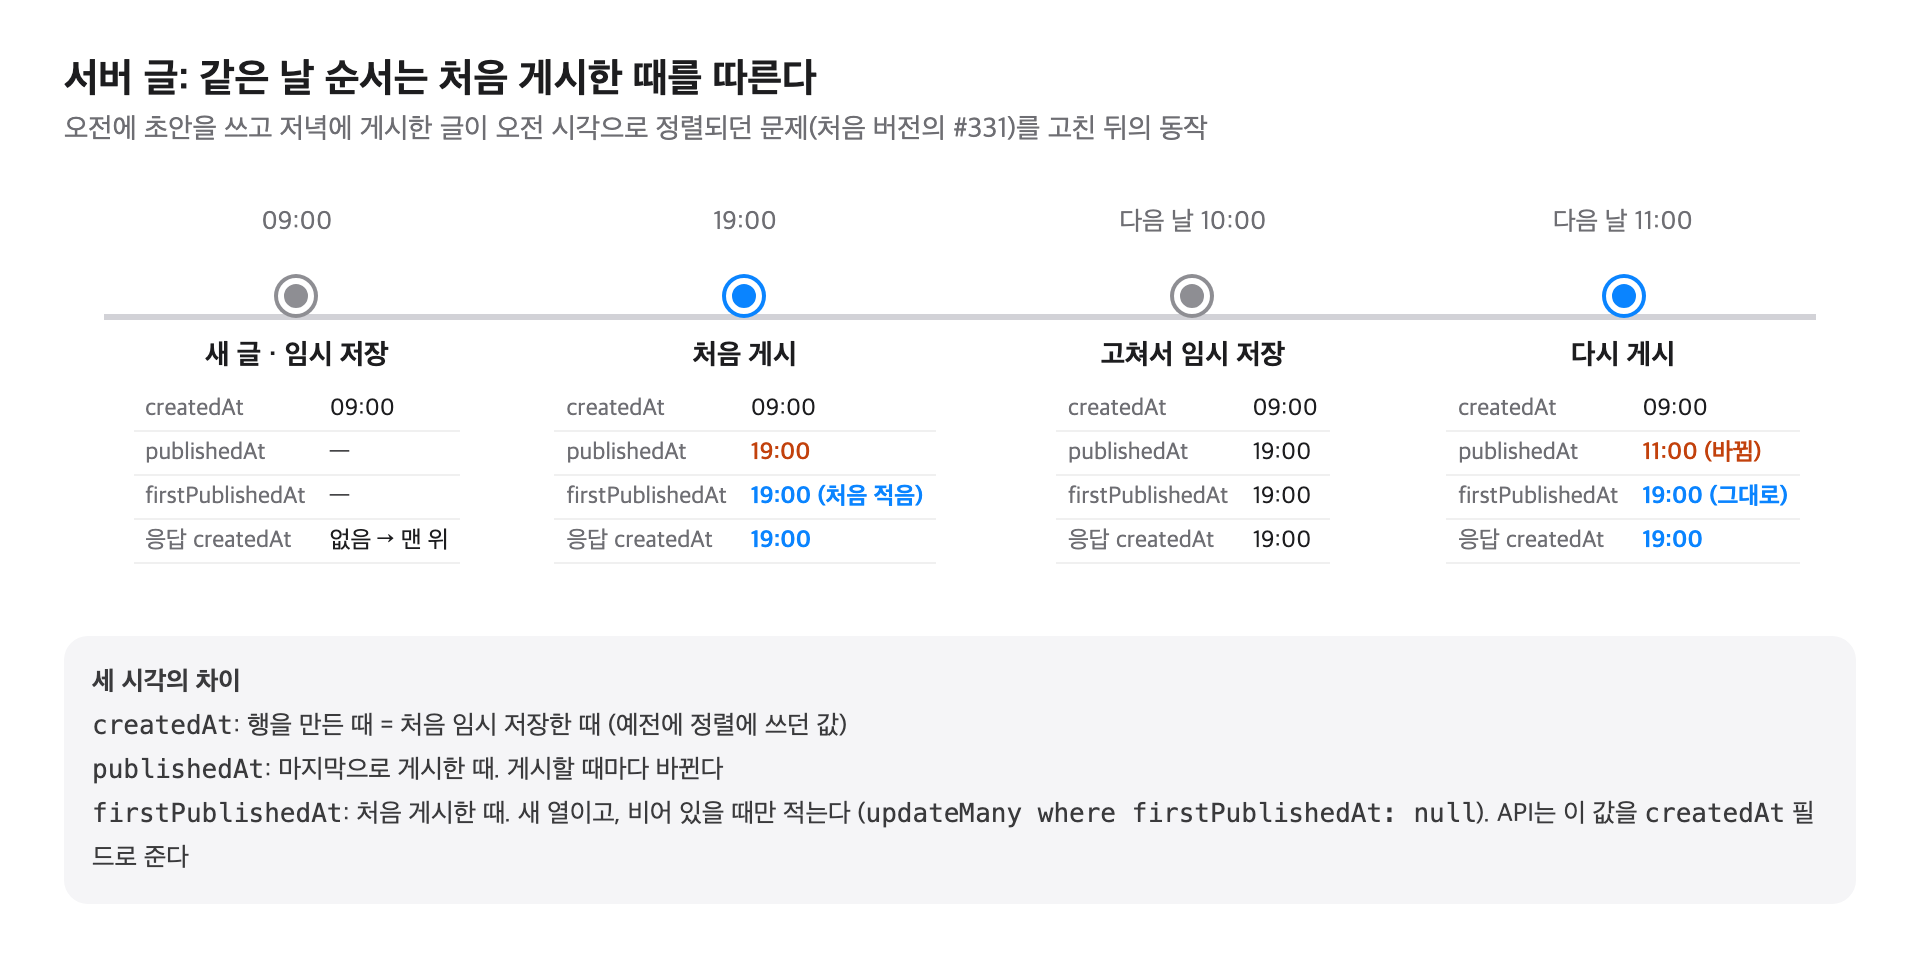
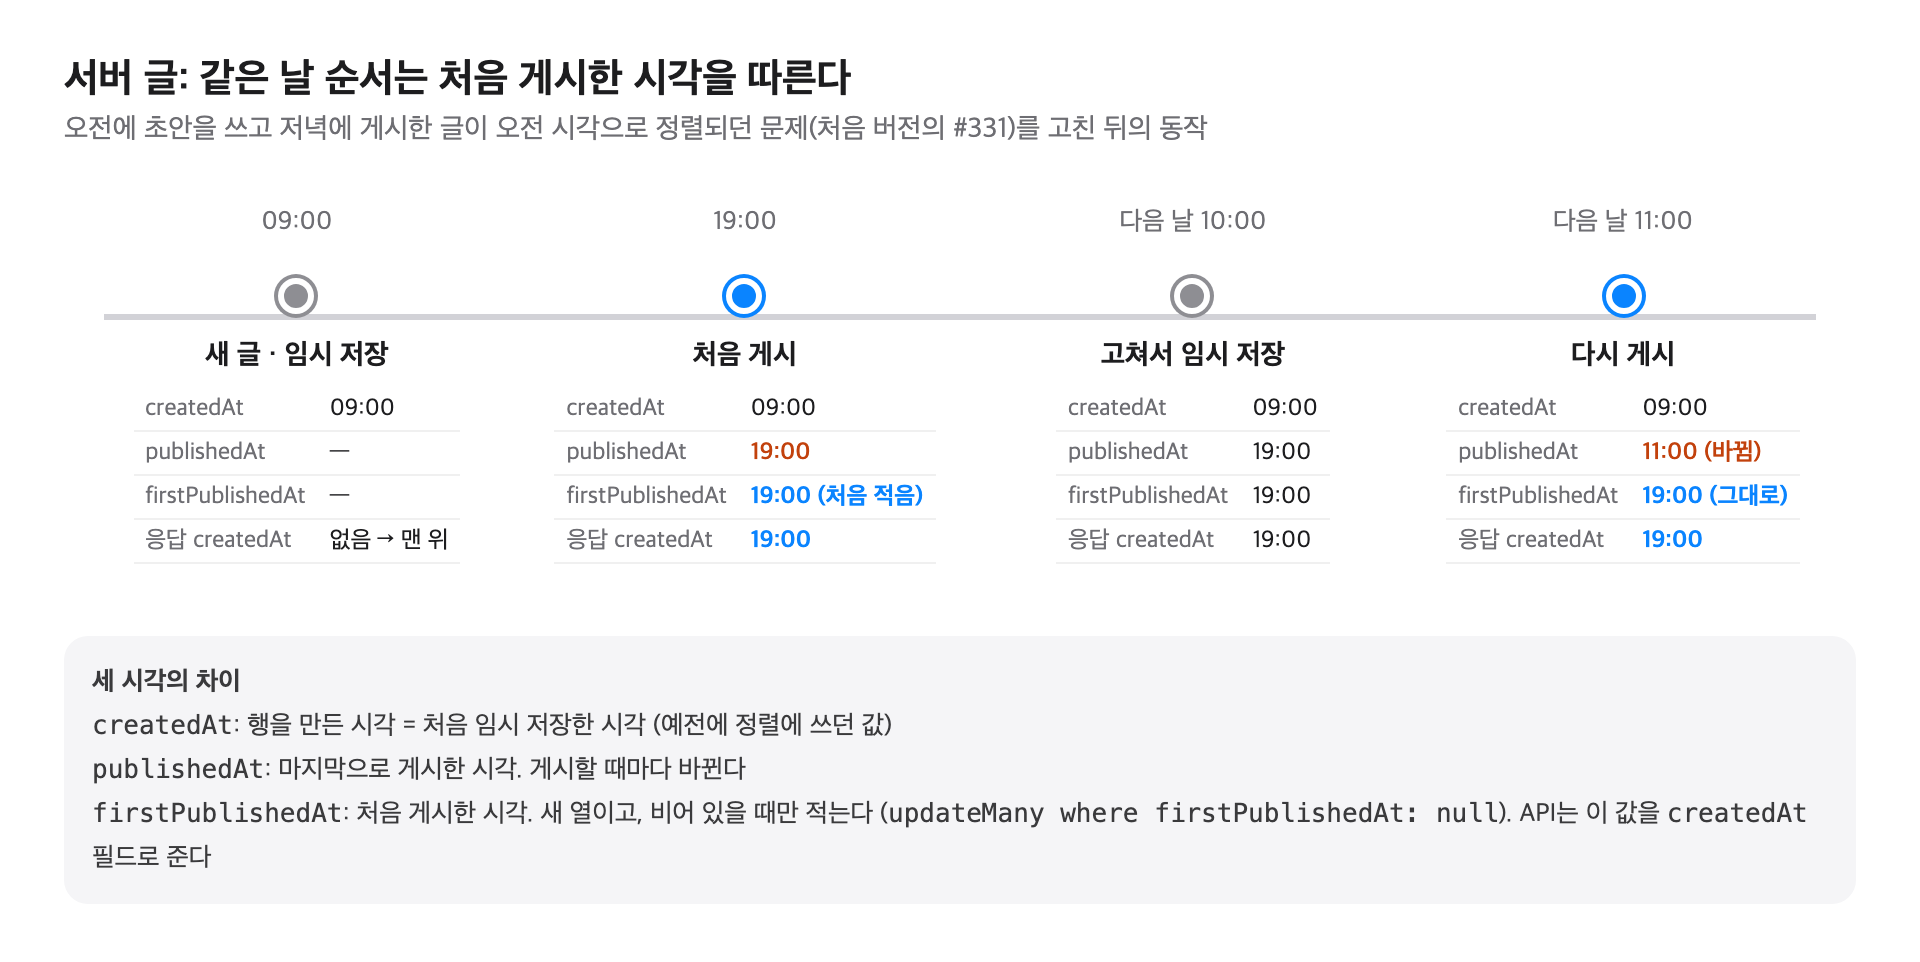
docs(memo): 같은 날 글 순서를 정하는 값을 '때'가 아니라 '시각'으로 적는다

Changed region(s): [[0.1875, 0.7173, 0.9375, 0.8732], [0.3125, 0.0624, 0.4688, 0.1247], [0.0312, 0.8732, 0.125, 0.9044]]

diff --git a/packages/desktop-core/src/memo/posts.ts b/packages/desktop-core/src/memo/posts.ts
@@ -22,8 +22,8 @@ export interface Post {
 	/** 관리자에게만: '최근 삭제된 항목'의 글이면 지운 때 (ISO) */
 	deletedAt?: string;
 	/**
-	 * 올린 때 (ISO, UTC). 같은 날 글의 순서를 정한다 (머리말의 date에는 시각이 없다).
-	 * 저장소 글은 git에 처음 들어온 커밋, 서버 글은 처음 게시한 때. 모르면(아직 커밋하지 않았거나 게시하지 않은 글) 가장 최근으로 본다
+	 * 올린 시각 (ISO, UTC). 같은 날 글의 순서를 정한다 (머리말의 date에는 시각이 없다).
+	 * 저장소 글은 git에 처음 들어온 커밋, 서버 글은 처음 게시한 시각. 모르면(아직 커밋하지 않았거나 게시하지 않은 글) 가장 최근으로 본다
 	 */
 	createdAt?: string;
 }
@@ -107,7 +107,7 @@ export interface ServerPost {
 	summary: string;
 	body: string;
 	deleted: boolean;
-	/** 처음 게시한 때 (ISO). 같은 날 글의 순서에 쓴다. 게시한 적 없거나 이 값을 주기 전의 API면 없다 */
+	/** 처음 게시한 시각 (ISO). 같은 날 글의 순서에 쓴다. 게시한 적 없거나 이 값을 주기 전의 API면 없다 */
 	createdAt?: string;
 }
 
@@ -131,7 +131,7 @@ export function mergeServerPosts(posts: Post[], server: ServerPost[]): Post[] {
 			summary: item.summary || excerpt(item.body),
 			body: item.body,
 			...(original?.pinned && { pinned: true }),
-			// 저장소 글을 서버에서 고쳐도 올린 때는 저장소에 처음 들어온 때
+			// 저장소 글을 서버에서 고쳐도 올린 시각은 저장소에 처음 들어온 시각
 			...((original?.createdAt ?? item.createdAt) && { createdAt: original?.createdAt ?? item.createdAt }),
 		});
 	}
@@ -160,7 +160,7 @@ export interface AdminPost {
 	deletedAt: string | null;
 	/** 남은 버전 수 */
 	revisions: number;
-	/** 처음 게시한 때 (ISO). 같은 날 글의 순서에 쓴다. 게시한 적 없거나 이 값을 주기 전의 API면 없다 */
+	/** 처음 게시한 시각 (ISO). 같은 날 글의 순서에 쓴다. 게시한 적 없거나 이 값을 주기 전의 API면 없다 */
 	createdAt?: string;
 }
 
@@ -241,14 +241,14 @@ export function daysUntilPurge(deletedAt: string, now: Date): number {
 
 const NO_STATUS: PostStatus = { draftOnly: false, changed: false, scheduled: null };
 
-/** 올린 때의 비교 값. 모르면 가장 최근으로 (아직 커밋하지 않은, 지금 쓰고 있는 글) */
+/** 올린 시각의 비교 값. 모르면 가장 최근으로 (아직 커밋하지 않은, 지금 쓰고 있는 글) */
 const createdKey = (post: { createdAt?: string }) => post.createdAt ?? '\uffff';
 
-/** 올린 때로 비교한다: 먼저 올린 글이 앞 (오름차순). 같은 날 글의 순서에 쓴다 */
+/** 올린 시각으로 비교한다: 먼저 올린 글이 앞 (오름차순). 같은 날 글의 순서에 쓴다 */
 export const compareCreated = (a: { createdAt?: string }, b: { createdAt?: string }) =>
 	createdKey(a).localeCompare(createdKey(b));
 
-/** 최신 글이 위로. 같은 날이면 나중에 올린 글이 위로, 올린 때도 같으면 제목 순 */
+/** 최신 글이 위로. 같은 날이면 나중에 올린 글이 위로, 올린 시각도 같으면 제목 순 */
 export function sortPosts(posts: Post[]): Post[] {
 	return [...posts].sort(
 		(a, b) => b.date.localeCompare(a.date) || compareCreated(b, a) || a.title.localeCompare(b.title)
@@ -257,7 +257,7 @@ export function sortPosts(posts: Post[]): Post[] {
 
 /**
  * 날짜 순으로 바로 옆의 글: 이전 글은 더 오래된 글, 다음 글은 더 최근 글 (블로그의 흔한 관례).
- * 같은 날이면 목록과 같은 순서(올린 때, 그다음 제목)를 따른다. 목록을 어떻게 정렬해 보고 있든 날짜로 잇는다.
+ * 같은 날이면 목록과 같은 순서(올린 시각, 그다음 제목)를 따른다. 목록을 어떻게 정렬해 보고 있든 날짜로 잇는다.
  */
 export function adjacentPosts(posts: Post[], slug: PostSlug): { older: Post | null; newer: Post | null } {
 	const ordered = sortPosts(posts);

diff --git a/apps/react/seo/posts.ts b/apps/react/seo/posts.ts
@@ -67,8 +67,8 @@ export function updatedDates(log: string): Record<string, string> {
 }
 
 /**
- * `git log --diff-filter=A --format=%x00%cI --name-only --relative`의 출력 → 글 slug → 올린 때 (처음 더한 커밋, ISO UTC).
- * 같은 날 글의 순서를 정한다 (머리말의 날짜에는 시각이 없다). 기록은 최신 커밋이 먼저라, 지웠다 다시 더한 글은 가장 처음 더한 때
+ * `git log --diff-filter=A --format=%x00%cI --name-only --relative`의 출력 → 글 slug → 올린 시각 (처음 더한 커밋, ISO UTC).
+ * 같은 날 글의 순서를 정한다 (머리말의 날짜에는 시각이 없다). 기록은 최신 커밋이 먼저라, 지웠다 다시 더한 글은 가장 처음 더한 시각
  */
 export function createdTimes(log: string): Record<string, string> {
 	const times: Record<string, string> = {};
@@ -84,7 +84,7 @@ export function createdTimes(log: string): Record<string, string> {
 	return times;
 }
 
-/** 빌드가 넘기는 것: 빌드한 그림 주소, 글 slug → 마지막으로 고친 날, 글 slug → 올린 때 */
+/** 빌드가 넘기는 것: 빌드한 그림 주소, 글 slug → 마지막으로 고친 날, 글 slug → 올린 시각 */
 export interface SeoPostOptions {
 	images?: ContentImages;
 	updated?: Record<string, string>;

diff --git a/apps/react/vite.config.ts b/apps/react/vite.config.ts
@@ -78,7 +78,7 @@ function contentUpdatedDates(contentDir: string): Record<string, string> {
 }
 
 /**
- * 글 파일마다 올린 때 (git에 처음 더한 커밋). 같은 날 글의 순서를 정한다.
+ * 글 파일마다 올린 시각 (git에 처음 더한 커밋). 같은 날 글의 순서를 정한다.
  * 기록을 일부만 받은 저장소(shallow clone)는 처음 더한 커밋이 없으니 쓰지 않는다: 같은 날 글은 제목 순이 된다
  */
 function contentCreatedTimes(contentDir: string): Record<string, string> {
@@ -165,7 +165,7 @@ function recentPostsPlugin(): Plugin {
 	// 'virtual:post-index': 모든 글의 제목·날짜·분류 (메모 위젯의 인기글·랜덤이 그때 불러온다. 첫 화면에는 넣지 않는다)
 	const indexId = 'virtual:post-index';
 	const indexResolved = `\0${indexId}`;
-	// 'virtual:post-created': 글마다 올린 때 (git). 메모 앱이 글 원문 묶음과 함께 불러와 같은 날 글의 순서를 정한다
+	// 'virtual:post-created': 글마다 올린 시각 (git). 메모 앱이 글 원문 묶음과 함께 불러와 같은 날 글의 순서를 정한다
 	const createdId = 'virtual:post-created';
 	const createdResolved = `\0${createdId}`;
 	const contentDir = fileURLToPath(new URL('./src/apps/memo/content', import.meta.url));

diff --git a/apps/api/test/posts.e2e.test.ts b/apps/api/test/posts.e2e.test.ts
@@ -81,7 +81,7 @@ describe('블로그 글 (e2e)', () => {
 		const created = await admin('post', '/posts').send(POST).expect(201);
 		expect(created.body.slug).toMatch(/^2026-09-29-[0-9a-f]{6}$/);
 		expect(created.body).toMatchObject({ published: null, draft: POST, revisions: 0 });
-		// 게시하기 전에는 같은 날 글의 순서를 정할 때가 없다 (가장 최근으로 본다)
+		// 게시하기 전에는 같은 날 글의 순서를 정할 시각이 없다 (가장 최근으로 본다)
 		expect(created.body.createdAt).toBeUndefined();
 		expect((await request(server()).get('/posts').expect(200)).body).toEqual([]);
 
@@ -104,7 +104,7 @@ describe('블로그 글 (e2e)', () => {
 		]);
 	});
 
-	it('같은 날 글의 순서는 처음 게시한 때를 따른다 (임시 저장한 때나 다시 게시한 때가 아니다)', async () => {
+	it('같은 날 글의 순서는 처음 게시한 시각을 따른다 (임시 저장한 시각이나 다시 게시한 시각이 아니다)', async () => {
 		const { slug } = (await admin('post', '/posts').send(POST).expect(201)).body;
 		const first = await admin('post', `/posts/${slug}/publish`).send(POST).expect(200);
 		const again = await admin('post', `/posts/${slug}/publish`)

diff --git a/packages/desktop-core/src/memo/posts.test.ts b/packages/desktop-core/src/memo/posts.test.ts
@@ -100,7 +100,7 @@ describe('목록', () => {
 		expect(sortPosts(posts).map((p) => p.slug)).toEqual(['b', 'c', 'a']);
 	});
 
-	it('같은 날은 나중에 올린 글이 위 (제목보다 올린 때가 먼저)', () => {
+	it('같은 날은 나중에 올린 글이 위 (제목보다 올린 시각이 먼저)', () => {
 		const withTimes = [
 			{ ...posts[1], createdAt: '2026-09-28T01:00:00.000Z' },
 			{ ...posts[2], createdAt: '2026-09-28T05:00:00.000Z' },
@@ -244,7 +244,7 @@ describe('mergeServerPosts', () => {
 		...extra,
 	});
 
-	it('올린 때: 저장소 글을 서버에서 고쳐도 저장소에 처음 들어온 때, 서버에만 있는 글은 서버에 만든 때', () => {
+	it('올린 시각: 저장소 글을 서버에서 고쳐도 저장소에 처음 들어온 시각, 서버에만 있는 글은 서버에 만든 시각', () => {
 		const merged = mergeServerPosts(
 			[make('a', '2026-09-29', { createdAt: '2026-09-29T01:00:00.000Z' })],
 			[server('a', { createdAt: '2026-09-29T09:00:00.000Z' }), server('b', { createdAt: '2026-09-29T05:00:00.000Z' })]

diff --git a/apps/react/seo/posts.test.ts b/apps/react/seo/posts.test.ts
@@ -137,8 +137,8 @@ describe('검색엔진용 파일', () => {
 	});
 });
 
-describe('올린 때 (같은 날 글의 순서)', () => {
-	it('git 기록(최신 커밋이 먼저)에서 글마다 처음 더한 때를 UTC로 읽는다. 그림과 하위 폴더는 뺀다', () => {
+describe('올린 시각 (같은 날 글의 순서)', () => {
+	it('git 기록(최신 커밋이 먼저)에서 글마다 처음 더한 시각을 UTC로 읽는다. 그림과 하위 폴더는 뺀다', () => {
 		const log =
 			'\x002026-10-22T15:00:00+09:00\n\nevening.md\nimages/evening-a.png\n' +
 			'\x002026-10-22T09:00:00+09:00\n\nmorning.md\n' +
@@ -161,7 +161,7 @@ describe('올린 때 (같은 날 글의 순서)', () => {
 			'b-evening',
 			'a-morning',
 		]);
-		// 올린 때를 모르면 제목 순
+		// 올린 시각을 모르면 제목 순
 		expect((await seoPosts(files)).map((post) => post.slug)).toEqual(['a-morning', 'b-evening']);
 	});
 });

diff --git a/packages/contracts/src/posts.ts b/packages/contracts/src/posts.ts
@@ -66,7 +66,7 @@ export const ServerPost: z.ZodType<ServerPostShape> = z.object({
 	summary: z.string(),
 	body: z.string(),
 	deleted: z.boolean(),
-	/** 처음 게시한 때 (ISO). 같은 날 글의 순서를 정한다 */
+	/** 처음 게시한 시각 (ISO). 같은 날 글의 순서를 정한다 */
 	createdAt: z.string().optional(),
 });
 export type ServerPost = ServerPostShape;
@@ -83,7 +83,7 @@ export const AdminPost: z.ZodType<AdminPostShape> = z.object({
 	deletedAt: z.string().nullable(),
 	/** 남은 버전 수 */
 	revisions: z.number().int().nonnegative(),
-	/** 처음 게시한 때 (ISO). 같은 날 글의 순서를 정한다. 게시한 적 없으면 없다 */
+	/** 처음 게시한 시각 (ISO). 같은 날 글의 순서를 정한다. 게시한 적 없으면 없다 */
 	createdAt: z.string().optional(),
 });
 export type AdminPost = AdminPostShape;

diff --git a/packages/desktop-core/src/memo/arrange.test.ts b/packages/desktop-core/src/memo/arrange.test.ts
@@ -30,7 +30,7 @@ describe('sortBy', () => {
 		expect(sortBy(posts, { sort: 'title', order: 'desc' }).map((p) => p.title)).toEqual(['다', '나', '가']);
 	});
 
-	it('같은 날은 올린 때 순: 최신 순이면 나중에 올린 글이 위, 오래된 순이면 아래. 올린 때를 모르면(아직 커밋하지 않은 글) 가장 최근', () => {
+	it('같은 날은 올린 시각 순: 최신 순이면 나중에 올린 글이 위, 오래된 순이면 아래. 올린 시각을 모르면(아직 커밋하지 않은 글) 가장 최근', () => {
 		const sameDay = [
 			{ ...post('가', '2026-09-28'), createdAt: '2026-09-28T09:00:00.000Z' },
 			{ ...post('나', '2026-09-28'), createdAt: '2026-09-28T03:00:00.000Z' },

diff --git a/packages/desktop-core/src/memo/repository/staticPostRepository.ts b/packages/desktop-core/src/memo/repository/staticPostRepository.ts
@@ -7,7 +7,7 @@ import type { PostRepository } from './types.js';
  * @param files 파일 경로 → 파일 내용. 파일 이름(확장자 제외)이 글의 slug가 된다.
  *   머리말이 잘못된 파일은 빌드를 깨지 않고 목록에서만 빠진다.
  * @param onInvalid 빠진 파일을 알린다 (개발 중 경고 등)
- * @param created slug → 올린 때 (ISO, 빌드가 git 기록에서 읽는다). 같은 날 글의 순서를 정한다
+ * @param created slug → 올린 시각 (ISO, 빌드가 git 기록에서 읽는다). 같은 날 글의 순서를 정한다
  */
 export function createStaticPostRepository(
 	files: Record<string, string>,

diff --git a/packages/desktop-core/src/memo/arrange.ts b/packages/desktop-core/src/memo/arrange.ts
@@ -24,7 +24,7 @@ export const ORDER_LABELS: Record<SortKey, Record<SortOrder, string>> = {
 	title: { asc: '가나다 순', desc: '역순' },
 };
 
-/** 정렬한다. 같은 날짜면 올린 때 순(날짜와 같은 방향), 그다음 제목 순. 같은 제목이면 최신 순 */
+/** 정렬한다. 같은 날짜면 올린 시각 순(날짜와 같은 방향), 그다음 제목 순. 같은 제목이면 최신 순 */
 export function sortBy(posts: Post[], { sort, order }: Pick<Arrangement, 'sort' | 'order'>): Post[] {
 	const sign = order === 'asc' ? 1 : -1;
 	return [...posts].sort((a, b) =>

diff --git a/apps/react/src/vite-env.d.ts b/apps/react/src/vite-env.d.ts
@@ -24,7 +24,7 @@ declare module 'virtual:recent-posts' {
 	export default posts;
 }
 
-/** 글 slug → 올린 때 (ISO, git에 처음 더한 커밋. vite.config.ts의 recentPostsPlugin). 같은 날 글의 순서를 정한다 */
+/** 글 slug → 올린 시각 (ISO, git에 처음 더한 커밋. vite.config.ts의 recentPostsPlugin). 같은 날 글의 순서를 정한다 */
 declare module 'virtual:post-created' {
 	const created: Record<string, string>;
 	export default created;

diff --git a/packages/desktop-core/src/memo/repository/staticPostRepository.test.ts b/packages/desktop-core/src/memo/repository/staticPostRepository.test.ts
@@ -13,7 +13,7 @@ describe('createStaticPostRepository', () => {
 		]);
 	});
 
-	it('같은 날 글은 올린 때(빌드가 git 기록에서 읽은 값)로 나중에 올린 글이 위', async () => {
+	it('같은 날 글은 올린 시각(빌드가 git 기록에서 읽은 값)로 나중에 올린 글이 위', async () => {
 		const repo = createStaticPostRepository(
 			{
 				'../content/a-morning.md': '---\ntitle: 가 아침 글\ndate: 2026-09-28\n---\n본문',
